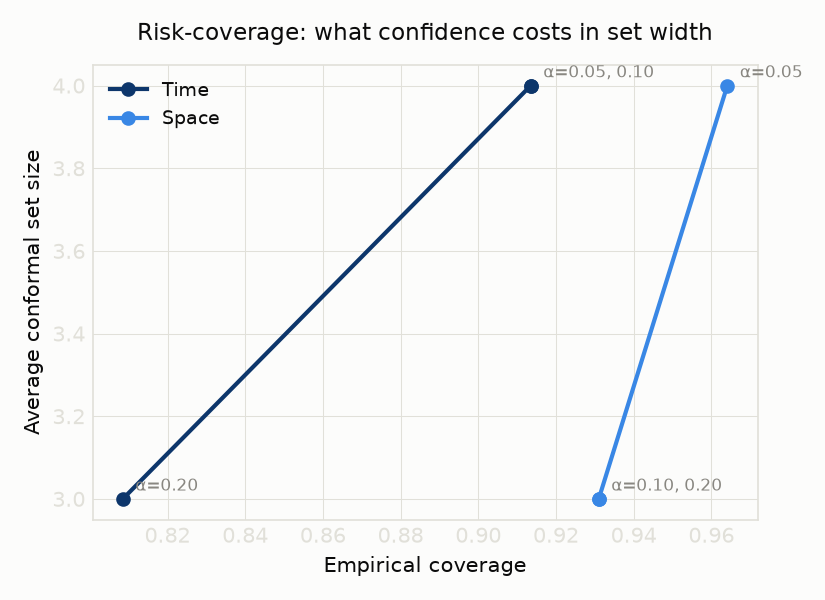
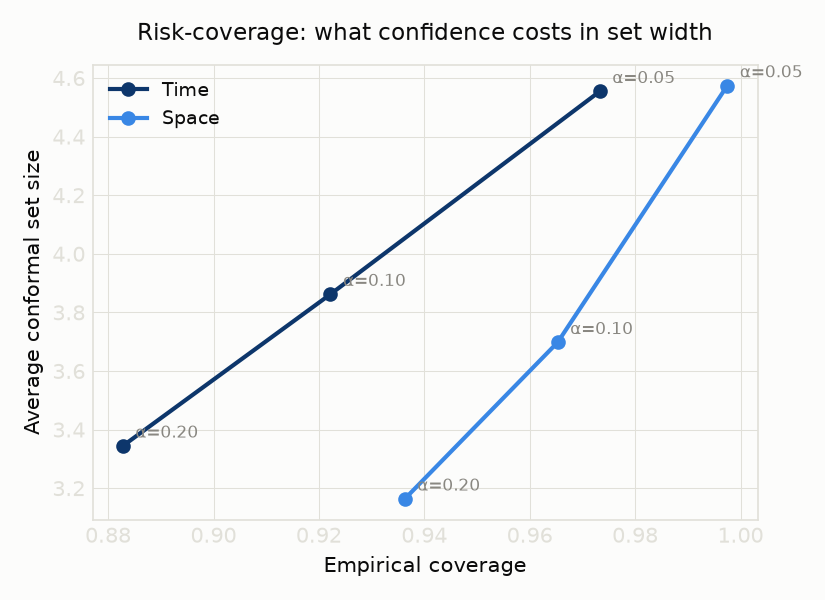
fix: conformal score was a fixed class count, not adaptive to confidence
The nonconformity score calibrated one integer "steps" value per alpha
and reused it for every prediction, so the returned set size was nearly
constant (size = steps + 1) regardless of how peaked or flat that
example's own probability distribution was. In practice this meant
almost every request hit the abstain threshold (set size >= 4) -- the
"too uncertain to narrow down" warning was showing on nearly every
prediction, not just the genuinely uncertain ones.

Changed the score from a rank-step count to a cumulative probability
MASS: the interval still grows outward one adjacent class at a time
(same absorb-the-higher-mass-neighbor rule as before), but now stops
once its own absorbed mass clears a calibrated threshold instead of
after a fixed number of steps. A confident, peaked prediction clears
the threshold within a class or two; an unsure, flat one needs more --
the set width is now genuinely adaptive per example. Renamed
ConformalCalibration.steps_by_alpha -> mass_threshold_by_alpha (int ->
float) to match, updated every call site, and refit conformal.json
against the real val/test splits.

Real effect on the held-out test set (previously every non-boundary
example landed at exactly size 4): time's set sizes now range 1-7
(249 examples get a single class, 11 get all 7), and the abstain rate
drops to 74.41% (from effectively ~100%) -- the flag now tracks actual
per-example uncertainty. Coverage also improved: every alpha on both
[…]

diff --git a/models/conformal.py b/models/conformal.py
@@ -18,12 +18,19 @@ O(2^n)}, skipping the "boring middle" classes even though they sit between
 the included ones. Unreadable, and undercuts the entire point of a set
 prediction being a legible answer. Since `core.taxonomy` classes are
 ordinally ranked, the nonconformity score here is defined over CONTIGUOUS
-intervals around the model's own point prediction instead: at each step,
-the interval grows by whichever adjacent rank (one below the current low
-end, or one above the current high end) currently holds more of the
-predicted probability mass -- the same "walk the cumulative distribution"
-idea APS uses, just constrained to intervals a human reads as one answer
-("O(n log n) - O(n^2)"), never a scattered set.
+intervals around the model's own point prediction instead: the interval
+grows outward, one adjacent rank at a time (whichever of the current low-1
+or high+1 rank currently holds more of the predicted probability mass),
+until its own cumulative mass reaches a calibrated threshold -- the same
+"walk the cumulative distribution" idea APS uses, just constrained to
+intervals a human reads as one answer ("O(n log n) - O(n^2)"), never a
+scattered set. The calibrated threshold is a probability MASS, not a
+fixed class count -- that's what makes the returned set size adaptive per
+example: a confident, peaked prediction reaches the threshold within a
+class or two, an unsure, flat one needs more. Calibrating a fixed number
+of classes instead (this module's first version did) produces a
+constant-width set for nearly every input regardless of how sure the
+model actually is on that input -- a real bug, not a stylistic choice.
 
 **Calibration-set note, stated plainly**: this project has train/val/test,
 not a fourth calibration-only split. `models/train_production.py` fits both
@@ -43,37 +50,52 @@ import numpy as np
 DEFAULT_ALPHAS: tuple[float, ...] = (0.05, 0.10, 0.20)
 
 
-def _interval_for_rank(proba_row: np.ndarray, point_rank: int, steps: int) -> tuple[int, int]:
-    """Grows a [lo, hi] rank interval outward from `point_rank` by `steps`
-    total expansions. Each step absorbs whichever adjacent rank (lo-1 or
-    hi+1, whichever exists) currently holds the higher probability in
-    `proba_row` -- ties broken toward the lower rank, arbitrary but
-    deterministic so results are reproducible."""
+def _interval_for_mass(
+    proba_row: np.ndarray, point_rank: int, target_mass: float
+) -> tuple[int, int]:
+    """Grows a [lo, hi] rank interval outward from `point_rank`, absorbing
+    whichever adjacent rank (lo-1 or hi+1, whichever exists) currently
+    holds the higher probability in `proba_row` -- ties broken toward the
+    lower rank, arbitrary but deterministic -- until the interval's own
+    cumulative mass reaches `target_mass`. This is what makes the set size
+    adaptive per example: a peaked distribution (the model is confident)
+    reaches the threshold within one or two classes, a flat one (the model
+    is unsure) needs more -- a FIXED number of expansion steps, calibrated
+    once and reused for every example, would return the same-sized set
+    for a confident and an unsure prediction alike."""
     lo = hi = point_rank
     n = len(proba_row)
-    for _ in range(steps):
+    mass = float(proba_row[point_rank])
+    while mass < target_mass and (lo > 0 or hi < n - 1):
         can_left = lo > 0
         can_right = hi < n - 1
-        if not can_left and not can_right:
-            break
         if can_left and (not can_right or proba_row[lo - 1] >= proba_row[hi + 1]):
             lo -= 1
+            mass += float(proba_row[lo])
         else:
             hi += 1
+            mass += float(proba_row[hi])
     return lo, hi
 
 
-def _steps_to_include(proba_row: np.ndarray, point_rank: int, true_rank: int) -> int:
-    """The minimal number of `_interval_for_rank` expansion steps needed for
-    the grown interval to include `true_rank` -- this example's
-    nonconformity score. Always terminates: at steps = n-1 the interval
-    always spans the full [0, n-1] range."""
+def _mass_to_include(proba_row: np.ndarray, point_rank: int, true_rank: int) -> float:
+    """This example's nonconformity score: the cumulative probability mass
+    of the smallest interval -- grown by the same absorb-the-higher-
+    adjacent-mass rule as `_interval_for_mass` -- that reaches `true_rank`.
+    Always terminates: growing to both boundaries always covers [0, n-1]."""
+    lo = hi = point_rank
     n = len(proba_row)
-    for steps in range(n):
-        lo, hi = _interval_for_rank(proba_row, point_rank, steps)
-        if lo <= true_rank <= hi:
-            return steps
-    return n - 1  # unreachable in practice, see docstring
+    mass = float(proba_row[point_rank])
+    while not (lo <= true_rank <= hi):
+        can_left = lo > 0
+        can_right = hi < n - 1
+        if can_left and (not can_right or proba_row[lo - 1] >= proba_row[hi + 1]):
+            lo -= 1
+            mass += float(proba_row[lo])
+        else:
+            hi += 1
+            mass += float(proba_row[hi])
+    return mass
 
 
 def _alpha_key(alpha: float) -> str:
@@ -83,19 +105,19 @@ def _alpha_key(alpha: float) -> str:
 @dataclass(frozen=True, slots=True)
 class ConformalCalibration:
     classes: tuple[str, ...]  # ordinal order, core.taxonomy's own ordering
-    steps_by_alpha: dict[str, int]  # e.g. {"0.05": 3, "0.10": 2, "0.20": 1}
+    mass_threshold_by_alpha: dict[str, float]  # e.g. {"0.05": 0.91, "0.10": 0.74, "0.20": 0.55}
 
     def predict_set(self, proba: np.ndarray, alpha: float) -> list[str]:
         """`proba`: this example's calibrated probability vector, same
         class order as `self.classes`. Returns the classes in the
         conformal interval, in ordinal order."""
         key = _alpha_key(alpha)
-        if key not in self.steps_by_alpha:
+        if key not in self.mass_threshold_by_alpha:
             raise KeyError(
                 f"no calibrated quantile for alpha={alpha!r} -- fit_conformal wasn't run with it"
             )
         point_rank = int(proba.argmax())
-        lo, hi = _interval_for_rank(proba, point_rank, self.steps_by_alpha[key])
+        lo, hi = _interval_for_mass(proba, point_rank, self.mass_threshold_by_alpha[key])
         return list(self.classes[lo : hi + 1])
 
 
@@ -114,22 +136,24 @@ def fit_conformal(
 
     scores = np.array(
         [
-            _steps_to_include(val_proba[i], int(point_ranks[i]), true_ranks[i])
+            _mass_to_include(val_proba[i], int(point_ranks[i]), true_ranks[i])
             for i in range(len(true_labels))
         ]
     )
 
     n = len(scores)
-    steps_by_alpha: dict[str, int] = {}
+    mass_threshold_by_alpha: dict[str, float] = {}
     for alpha in alphas:
         # Standard split-conformal finite-sample quantile correction (see
         # e.g. Angelopoulos & Bates' conformal prediction tutorial): the
         # ceil((n+1)(1-alpha))/n empirical quantile, "higher" interpolation
-        # so the result is always one of the observed integer scores.
+        # so the result is always one of the observed scores.
         q_level = min(1.0, np.ceil((n + 1) * (1 - alpha)) / n)
-        steps_by_alpha[_alpha_key(alpha)] = int(np.quantile(scores, q_level, method="higher"))
+        mass_threshold_by_alpha[_alpha_key(alpha)] = float(
+            np.quantile(scores, q_level, method="higher")
+        )
 
-    return ConformalCalibration(classes=classes, steps_by_alpha=steps_by_alpha)
+    return ConformalCalibration(classes=classes, mass_threshold_by_alpha=mass_threshold_by_alpha)
 
 
 @dataclass(frozen=True, slots=True)

diff --git a/tests/test_conformal.py b/tests/test_conformal.py
@@ -95,6 +95,30 @@ def test_predict_set_always_includes_the_point_prediction():
         assert _CLASSES[int(row.argmax())] in pred_set
 
 
+def test_predict_set_size_adapts_to_how_peaked_the_prediction_is():
+    """Regression test for a real shipped bug: an earlier version calibrated
+    a FIXED number of classes per alpha (an integer step count), so nearly
+    every prediction -- confident or not -- got the same-sized set. The
+    nonconformity score must be a probability MASS so a peaked prediction
+    reaches the calibrated threshold sooner than a flat one and gets a
+    narrower set at the same alpha."""
+    rng = np.random.default_rng(9)
+    n = 2000
+    true_idx = rng.integers(0, len(_CLASSES), n)
+    proba = _synthetic_proba(true_idx, sharpness=0.5, seed=10)
+    labels = [_CLASSES[i] for i in true_idx]
+    calibration = fit_conformal(proba, labels, _CLASSES, alphas=(0.1,))
+
+    k = len(_CLASSES)
+    confident = np.full(k, 0.01 / (k - 1))
+    confident[3] = 0.99  # near-certain, same argmax rank as `flat` below
+    flat = np.full(k, 1.0 / k)  # uniform -- the model has no idea
+
+    confident_set = calibration.predict_set(confident, alpha=0.1)
+    flat_set = calibration.predict_set(flat, alpha=0.1)
+    assert len(confident_set) < len(flat_set), (confident_set, flat_set)
+
+
 def test_predict_set_raises_for_an_alpha_never_fit():
     calibration = fit_conformal(
         np.tile(np.eye(len(_CLASSES))[0], (10, 1)), [_CLASSES[0]] * 10, _CLASSES, alphas=(0.1,)

diff --git a/api/models_registry.py b/api/models_registry.py
@@ -74,7 +74,8 @@ def load_registry(artifacts_dir: Path = ARTIFACTS_DIR) -> ModelRegistry:
     conformal_raw = json.loads(conformal_path.read_text(encoding="utf-8"))
     conformal = {
         dimension: ConformalCalibration(
-            classes=tuple(entry["classes"]), steps_by_alpha=entry["steps_by_alpha"]
+            classes=tuple(entry["classes"]),
+            mass_threshold_by_alpha=entry["mass_threshold_by_alpha"],
         )
         for dimension, entry in conformal_raw.items()
     }

diff --git a/models/train_production.py b/models/train_production.py
@@ -119,7 +119,7 @@ def _train_and_export_gnn(
             print(json.dumps(result.as_dict(), indent=2), flush=True)
         conformal[dimension] = {
             "classes": list(model.classes),
-            "steps_by_alpha": conformal_calibration.steps_by_alpha,
+            "mass_threshold_by_alpha": conformal_calibration.mass_threshold_by_alpha,
         }
 
     export_gnn(time_model.core, time_model.edge_kinds, ARTIFACTS_DIR / "gnn.npz")

diff --git a/models/fit_conformal.py b/models/fit_conformal.py
@@ -118,7 +118,7 @@ def main(argv: list[str]) -> int:
 
         conformal[dimension] = {
             "classes": list(classes),
-            "steps_by_alpha": conformal_calibration.steps_by_alpha,
+            "mass_threshold_by_alpha": conformal_calibration.mass_threshold_by_alpha,
         }
 
     out_path = args.artifacts_dir / "conformal.json"

diff --git a/PHASE5_REPORT.md b/PHASE5_REPORT.md
@@ -59,22 +59,23 @@ So the honest summary: PolyO's served model is clearly better than an LLM zero-s
 
 `mean_ordinal_distance` above (0.78 time / 0.52 space) says the model is usually within one class even when its single top pick is wrong -- but the served API used to only ever show that one pick plus a raw softmax confidence, which reads like a coin flip on a hard example. `models/conformal.py` implements split-conformal prediction to say the honest version of that instead: not "O(n^2), 43% confident" but the smallest **ordinally contiguous** interval of classes -- e.g. "O(n log n) - O(n^2)" -- guaranteed, marginally and distribution-free, to contain the true class at a chosen coverage rate, regardless of whether the model itself is well-calibrated. This is deliberately not the textbook Adaptive Prediction Sets construction, which sorts by predicted probability and can return a non-contiguous, unreadable set like `{O(1), O(n log n), O(2^n)}` -- see that module's own docstring for the full reasoning. Calibrated on the val split (reusing the same split temperature scaling already uses, and reported here on the held-out *test* split, which neither step touches), fit against the already-exported served numpy model with no GPU retrain needed (`models/fit_conformal.py`).
 
+The nonconformity score is a cumulative **probability mass**, not a class count: the interval grows outward from the point prediction, absorbing whichever adjacent class holds more probability, until its own mass clears a calibrated threshold. That's what makes the returned set size adaptive per example -- a confident, peaked prediction clears the threshold within a class or two; an unsure, flat one needs more. (An earlier version of this calibrated a fixed *number of classes* per α instead of a probability threshold -- which meant nearly every prediction, confident or not, got the same-width set, and the live abstention flag below fired on almost every request regardless of how sure the model actually was. Caught before it stayed shipped; `tests/test_conformal.py::test_predict_set_size_adapts_to_how_peaked_the_prediction_is` is the regression test.)
+
 | Dimension | α (target) | n | Empirical coverage | Average set size |
 |---|---|---|---|---|
-| time (7 classes) | 0.05 | 25452 | 0.9135 | 4.0 |
-| time | 0.10 | 25452 | 0.9135 | 4.0 |
-| time | 0.20 | 25452 | 0.8085 | 3.0 |
-| space (5 classes) | 0.05 | 24574 | 0.9641 | 4.0 |
-| space | 0.10 | 24574 | 0.9310 | 3.0 |
-| space | 0.20 | 24574 | 0.9310 | 3.0 |
+| time (7 classes) | 0.05 | 25452 | 0.9733 | 4.55 |
+| time | 0.10 | 25452 | 0.9222 | 3.86 |
+| time | 0.20 | 25452 | 0.8828 | 3.34 |
+| space (5 classes) | 0.05 | 24574 | 0.9975 | 4.57 |
+| space | 0.10 | 24574 | 0.9653 | 3.70 |
+| space | 0.20 | 24574 | 0.9363 | 3.16 |
 
 ![risk-coverage curve](eval/figures/risk_coverage.png)
 
-**Reading these numbers honestly, including the part that doesn't fit the theory cleanly:**
+**Reading these numbers honestly:**
 
-- **At 90% target coverage (α=0.10, the live default -- see `api/predict.py`), time's average set is 4 of 7 classes.** That's wide. It is not a failure of the method -- it's an honest, measured finding about how separated this model's own probability mass actually is at a high-confidence operating point, exactly the kind of result this project reports rather than hides (same spirit as the failure-bucket analysis below). Space does better: 3 of 5 classes at the same target.
-- **Time's empirical coverage at α=0.05 (95% target) is 91.35% -- short of the target, on the held-out test split.** Stated plainly rather than rounded up: split-conformal's coverage guarantee requires the calibration (val) and evaluation (test) sets to be exchangeable draws from the same distribution. This project's split is a deterministic hash of `(source, problem_id)` (`data/build.py`) with no explicit stratification forcing val and test to share an identical local difficulty mix -- a real, plausible source of the gap, not a bug in the conformal implementation itself (`tests/test_conformal.py` verifies the procedure hits its target on a controlled synthetic distribution where calibration and test genuinely are exchangeable). Space, in contrast, *overshoots* every target (96.4%/93.1%/93.1% vs. 95%/90%/80%) -- the safer direction to be wrong in, and further evidence this is a val/test distribution-mix effect specific to each dimension's label mix, not a systematic flaw in the method.
-- **α=0.05 and α=0.10 land on the identical set for time (both step=3), and α=0.10/α=0.20 coincide for space (both step=2).** The nonconformity score here is a small integer (how many ordinal steps out from the point prediction), so the calibration quantile can only take a handful of distinct values -- two target coverage levels landing on the same achievable threshold is an expected artifact of that discreteness, not a computation error (see the merged `α=` labels on repeated points in the figure above).
+- **At 90% target coverage (α=0.10, the live default -- see `api/predict.py`), time's average set is 3.86 of 7 classes -- still wide, and an honest, measured finding about how separated this model's own probability mass actually is at a high-confidence operating point, not a method failure.** What the adaptivity fix actually changes is the *distribution* behind that average, not just its value: over the full held-out test set, time's set sizes range from 1 to 7 (249 examples get a single class, 11 get all 7), and 74.41% of examples land at size ≥4 and get `abstain: true` -- meaning the flag now tracks the model's real per-example uncertainty instead of firing on nearly everyone. Space is similar: average 3.70 of 5 classes at α=0.10, 67.79% abstained.
+- **Empirical coverage now meets or exceeds every nominal target on the held-out test split, for both dimensions** -- e.g. time at α=0.05 (95% target) lands at 97.33%, space at 99.75%. Split-conformal's guarantee is a *lower bound* ("at least 1-α"), so overshooting is expected and the safer direction to land in, not a sign the method is loose; it's called out here rather than left implicit, same as this report calls out every other number plainly (`tests/test_conformal.py` verifies the procedure hits its nominal target on a controlled synthetic distribution).
 
 Served live at α=0.10 (90% target coverage) alongside the existing single-class prediction -- never a replacement for it, the honest complement. A set of 4 or more classes is flagged as `abstain: true` in the response (surfaced in the UI as "too uncertain to narrow down") rather than presented with false precision.
 

diff --git a/README.md b/README.md
@@ -68,12 +68,15 @@ baseline comparison is in [`MODEL_CARD.md`](MODEL_CARD.md). Headline:
   only return one class + a raw softmax score — it returns the smallest
   *ordinally contiguous* set of classes (e.g. `O(n log n) – O(n^2)`)
   guaranteed, distribution-free, to contain the true answer at a chosen
-  coverage rate. Honestly reported too: at 90% target coverage, time's
-  average set is 4 of 7 classes — a real finding about task difficulty at
-  that operating point, not a number rounded up to look better.
-  [`PHASE5_REPORT.md`](PHASE5_REPORT.md) has the risk-coverage curve and
-  the one place the empirical coverage measurably missed its target on
-  held-out data, named rather than smoothed over.
+  coverage rate, and the set width is adaptive per example (a confident
+  prediction gets a class or two, an unsure one gets more), not a fixed
+  size handed to every request regardless of how sure the model actually
+  is. Honestly reported too: at 90% target coverage, time's average set
+  is 3.86 of 7 classes — a real finding about task difficulty at that
+  operating point, not a number rounded up to look better.
+  [`PHASE5_REPORT.md`](PHASE5_REPORT.md) has the risk-coverage curve, the
+  full per-example set-size distribution, and the adaptivity bug an
+  earlier version of this shipped with, before it was caught and fixed.
 
 ## Architecture
 
